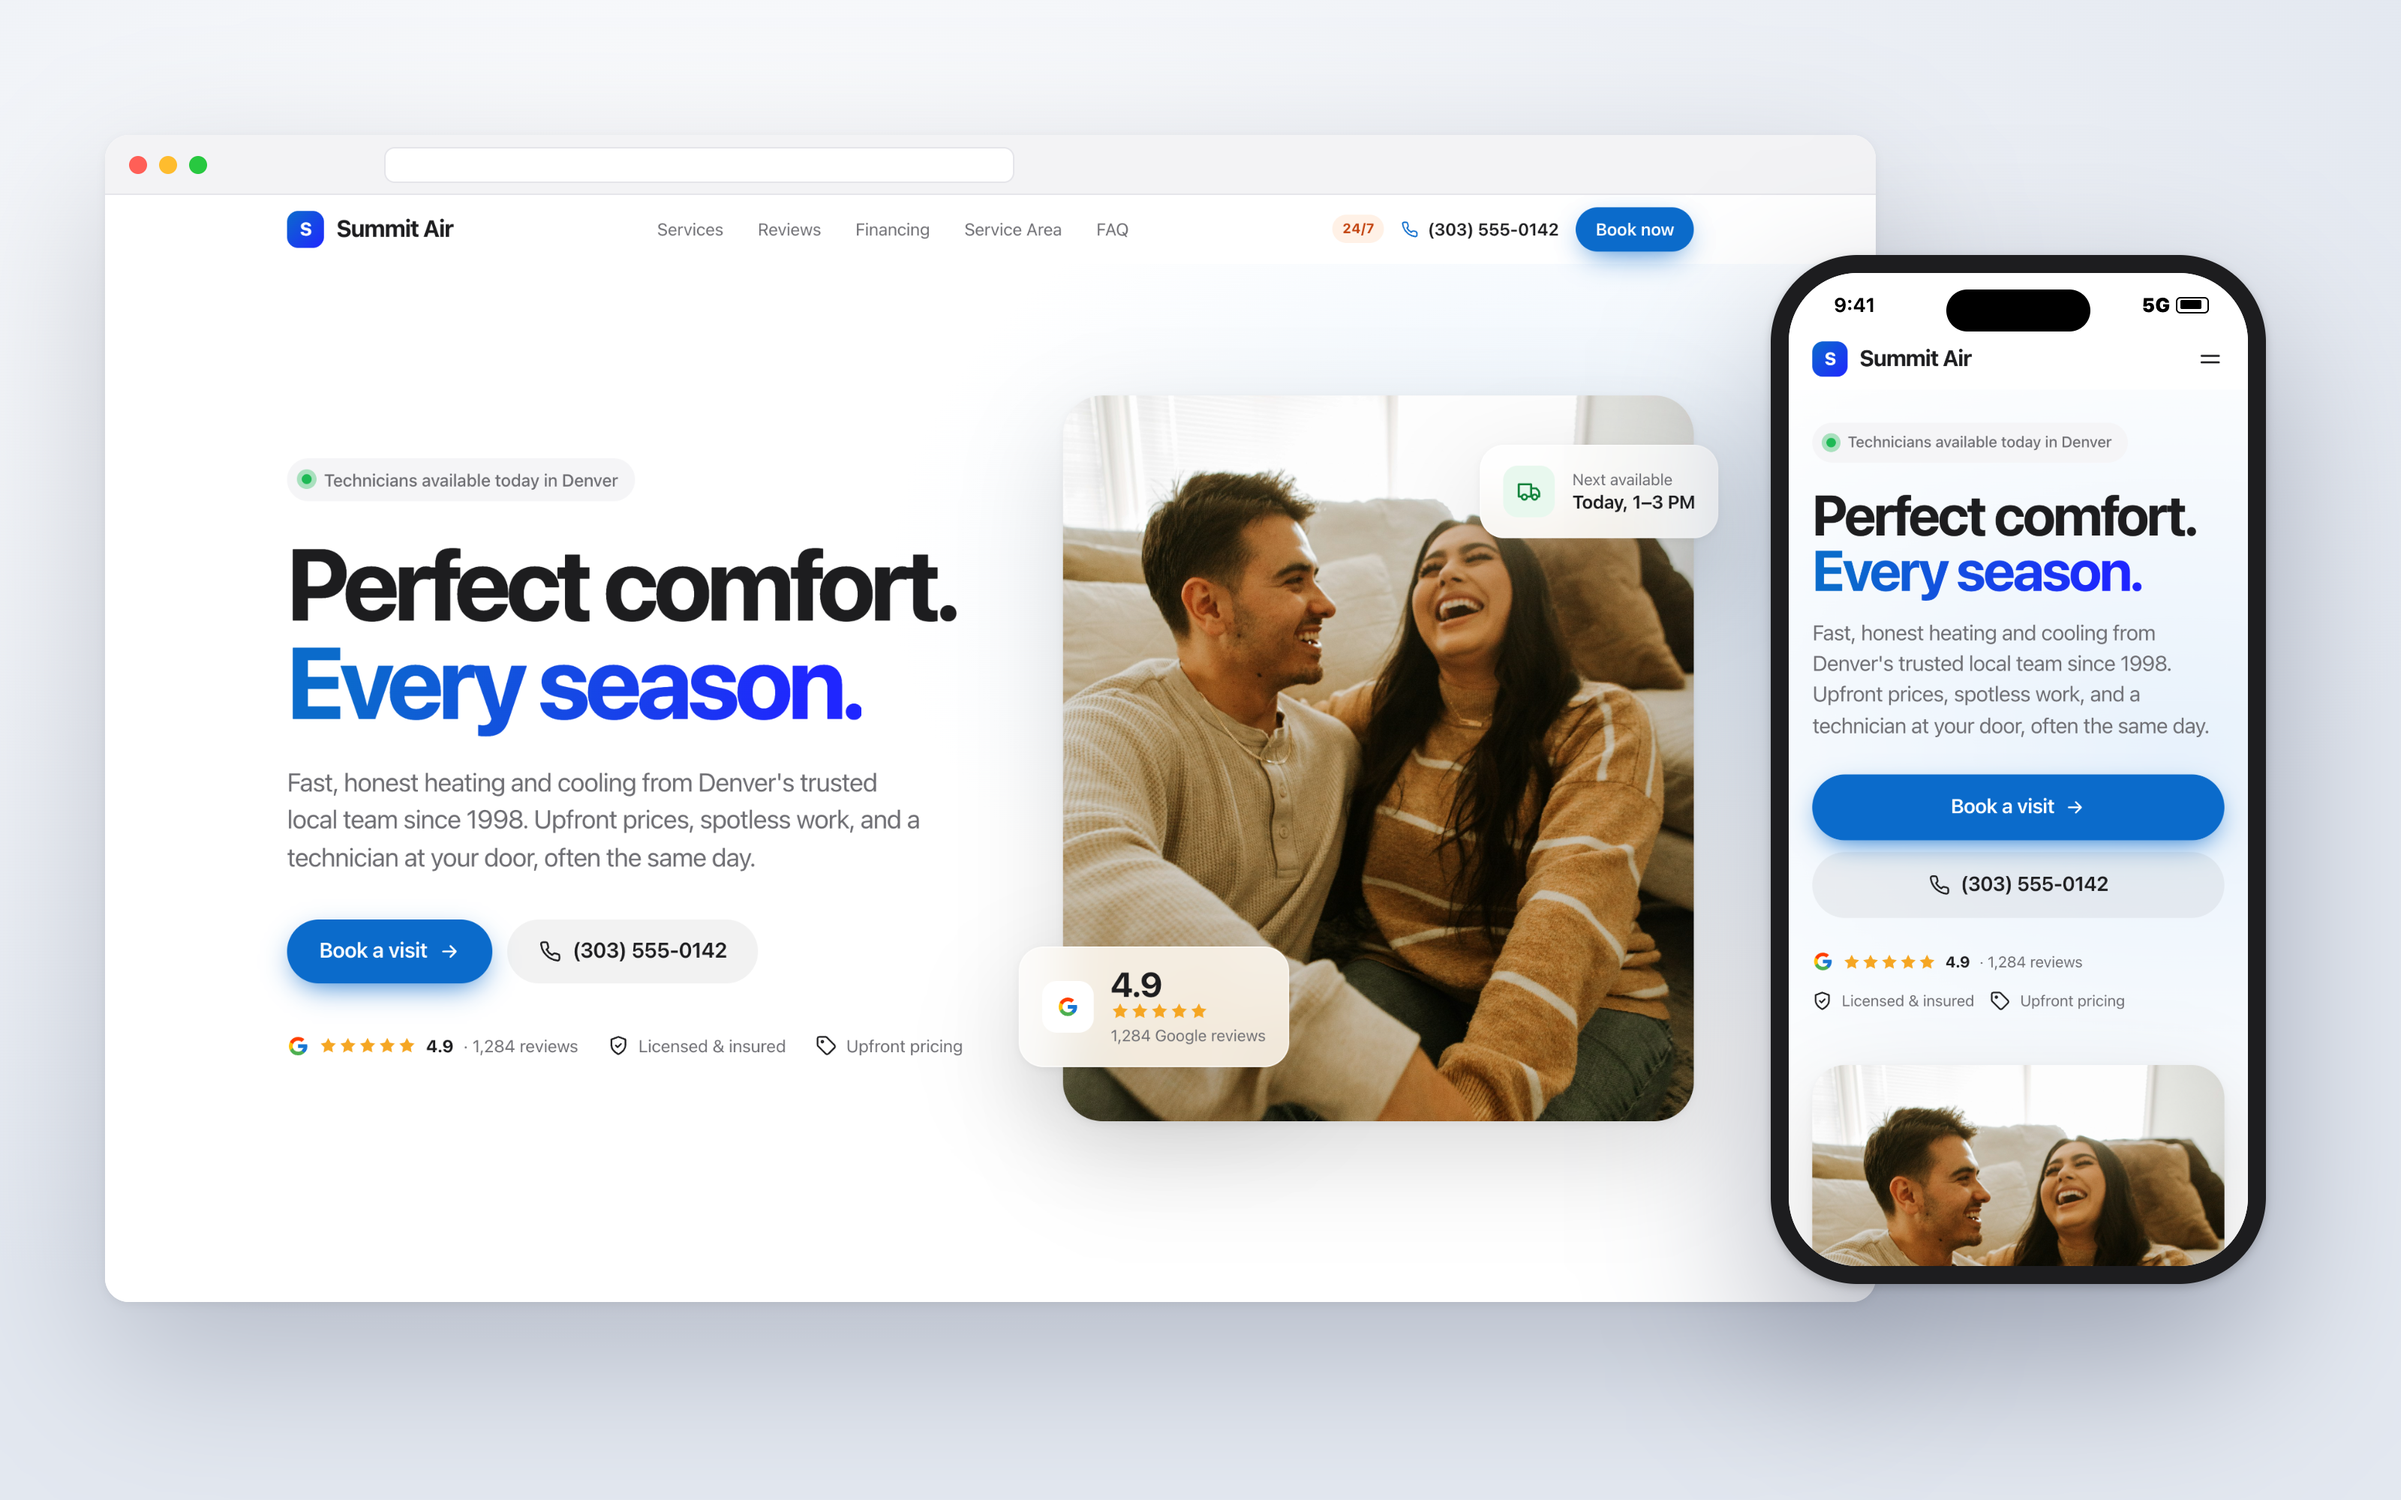
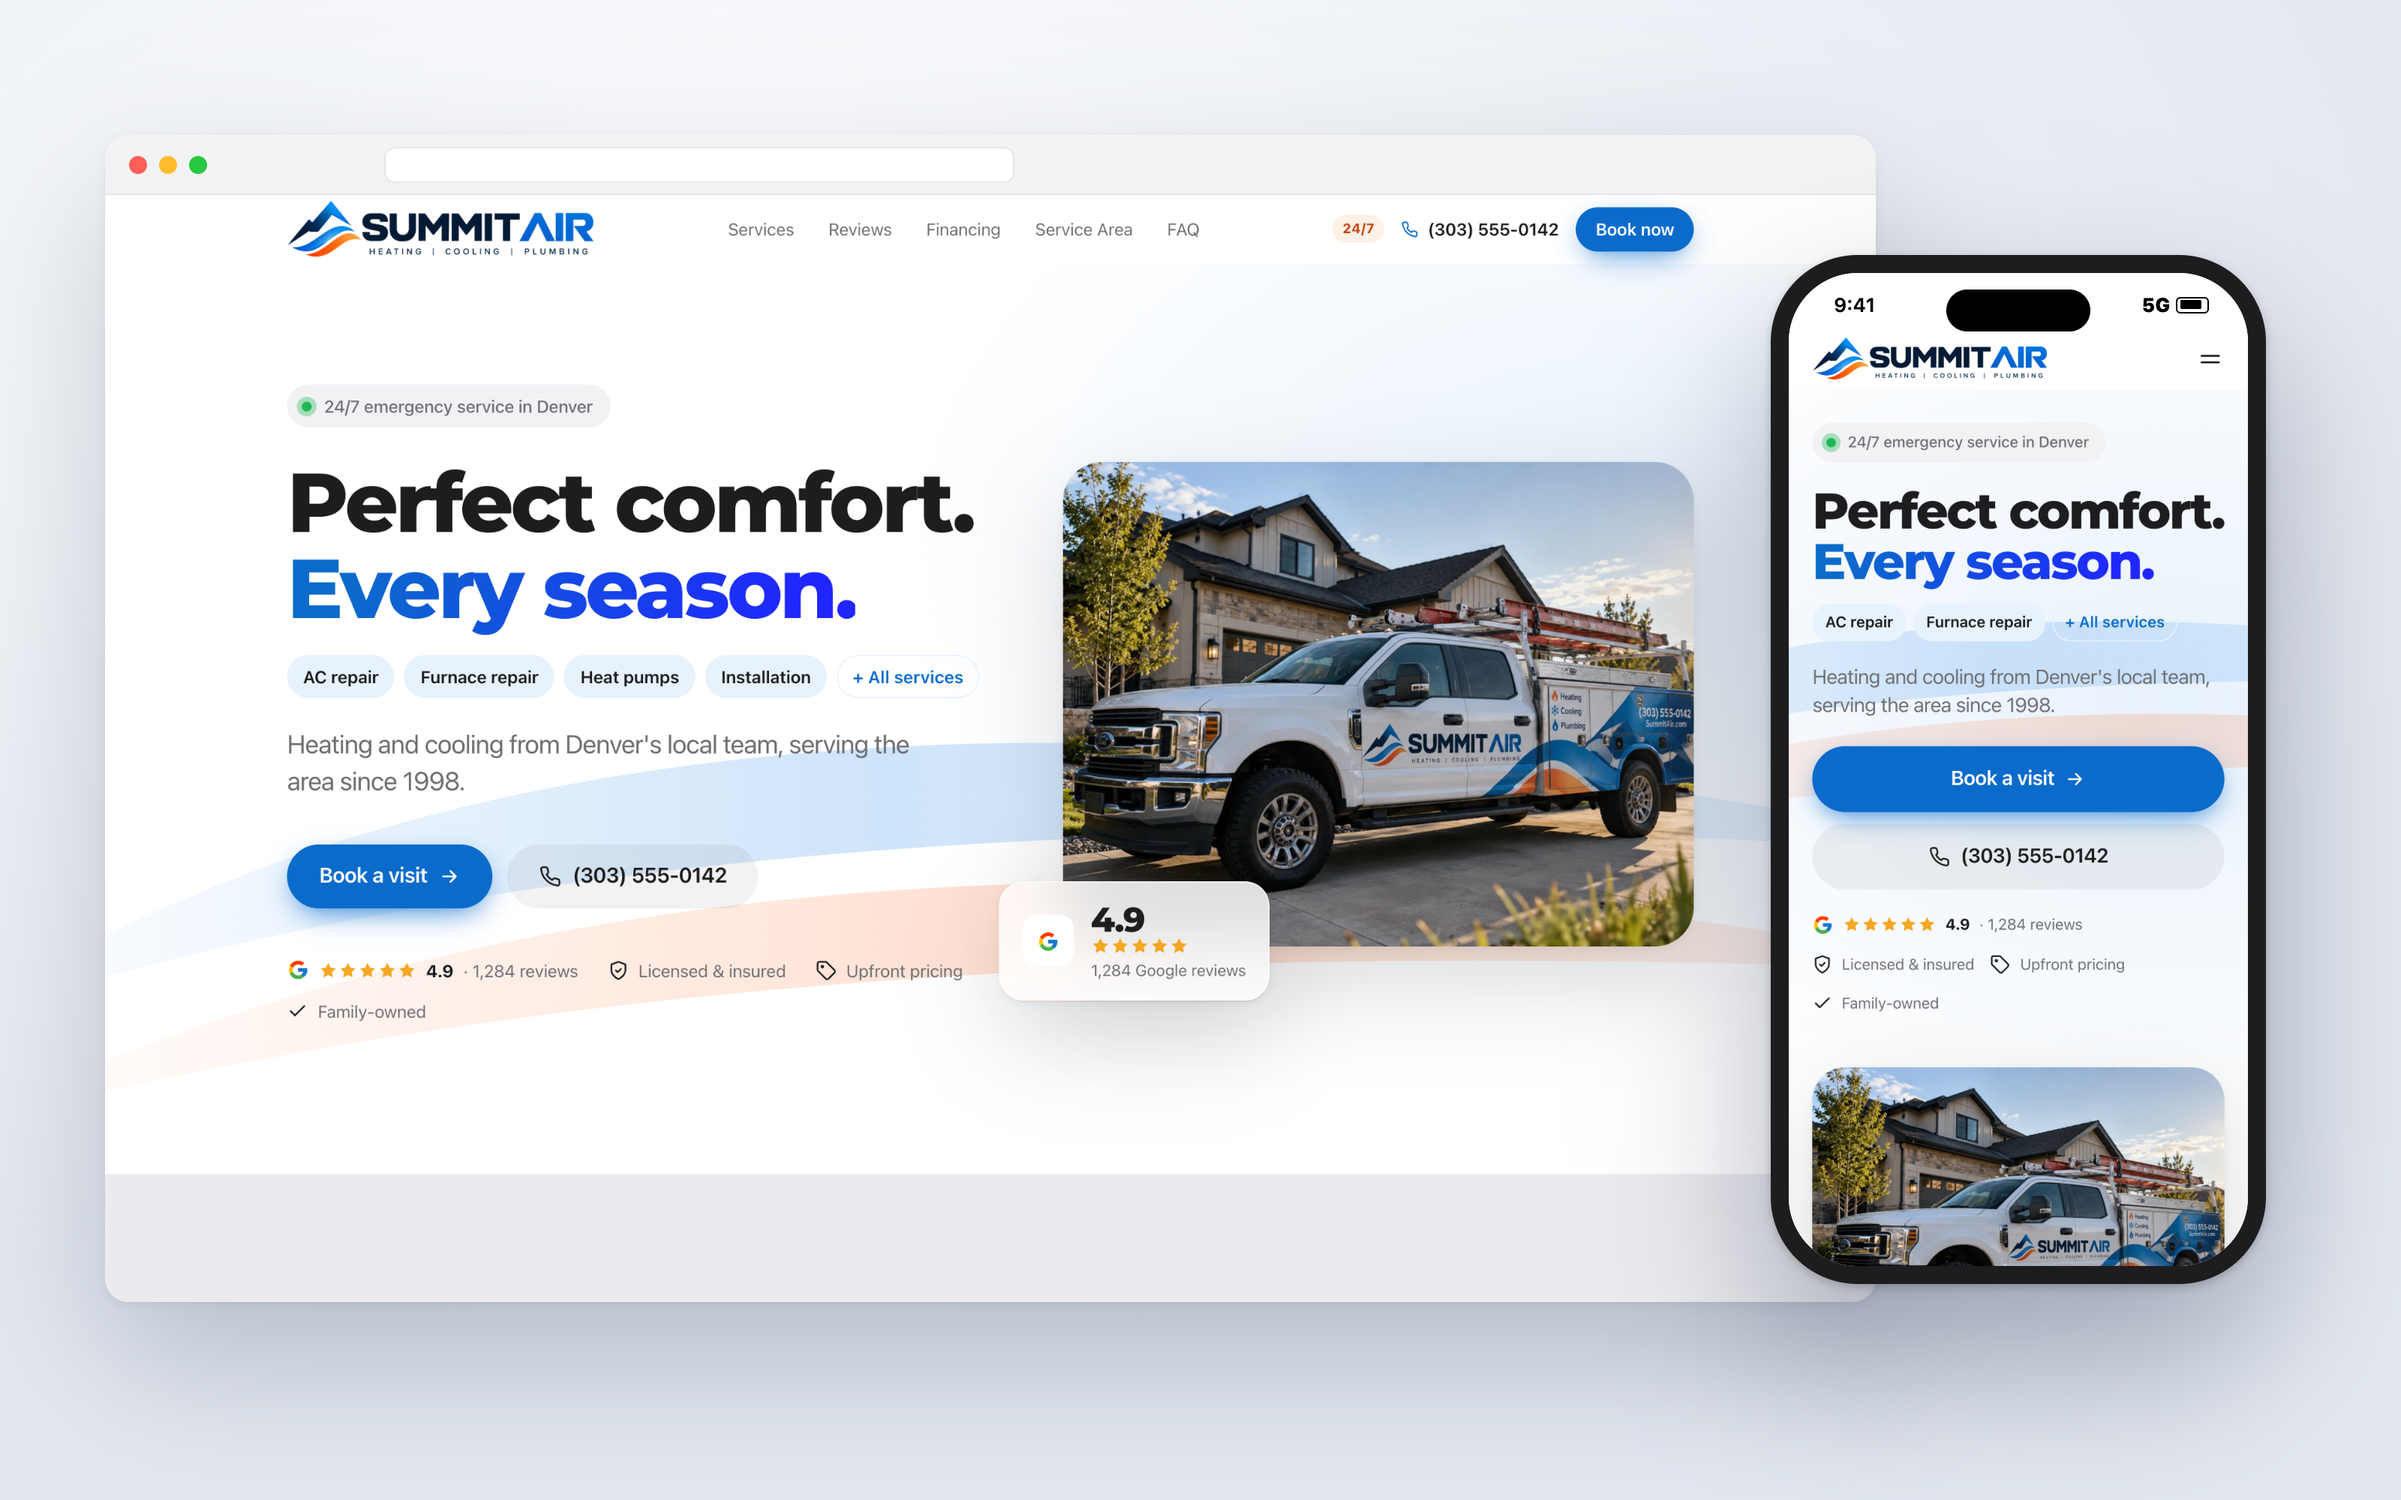
Homepage: v3 template showcase image; demo buttons to new Calendly link

diff --git a/index.html b/index.html
@@ -121,7 +121,7 @@ footer img{height:20px;width:auto;opacity:.85}
     <div class="nav-links">
       <a href="#what">What you get</a>
       <a href="#how">How it works</a>
-      <a href="https://calendly.com/flightsites/demo" target="_blank" rel="noopener" class="btn btn-dark btn-sm">Book a demo</a>
+      <a href="https://calendly.com/d/d3rs-gfz-3ff" target="_blank" rel="noopener" class="btn btn-dark btn-sm">Book a demo</a>
     </div>
   </div>
 </nav>
@@ -131,7 +131,7 @@ footer img{height:20px;width:auto;opacity:.85}
     <h1>Websites that win the job. <span>Built for the trades.</span></h1>
     <p class="lead">Flight Sites designs fast, beautiful, mobile-first websites for home services companies, so the homeowner who finds you calls you, not the next name on Google.</p>
     <div class="hero-cta">
-      <a href="https://calendly.com/flightsites/demo" target="_blank" rel="noopener" class="btn btn-dark">Book a free demo
+      <a href="https://calendly.com/d/d3rs-gfz-3ff" target="_blank" rel="noopener" class="btn btn-dark">Book a free demo
         <svg class="i" viewBox="0 0 24 24" style="width:18px;height:18px"><path d="M5 12h14M13 6l6 6-6 6"/></svg></a>
       <a href="#how" class="btn btn-ghost">See how it works</a>
     </div>
@@ -203,7 +203,7 @@ footer img{height:20px;width:auto;opacity:.85}
     <div class="cta reveal">
       <h2>Want to see what your site could look like?</h2>
       <p class="lead">Book a quick call. We'll walk you through what a Flight Sites website could look like for your business.</p>
-      <a class="btn btn-light" href="https://calendly.com/flightsites/demo" target="_blank" rel="noopener">Book a free demo
+      <a class="btn btn-light" href="https://calendly.com/d/d3rs-gfz-3ff" target="_blank" rel="noopener">Book a free demo
         <svg class="i" viewBox="0 0 24 24" style="width:18px;height:18px"><path d="M5 12h14M13 6l6 6-6 6"/></svg></a>
     </div>
   </div>
